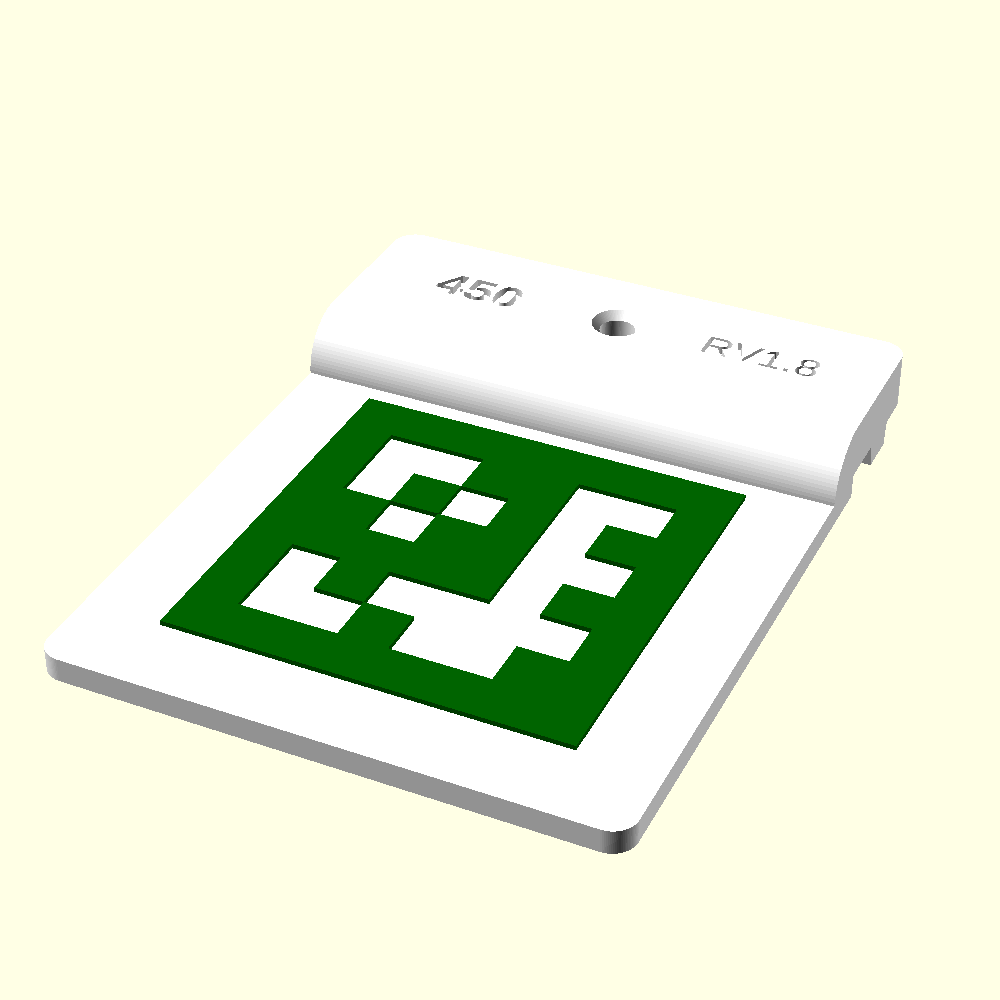
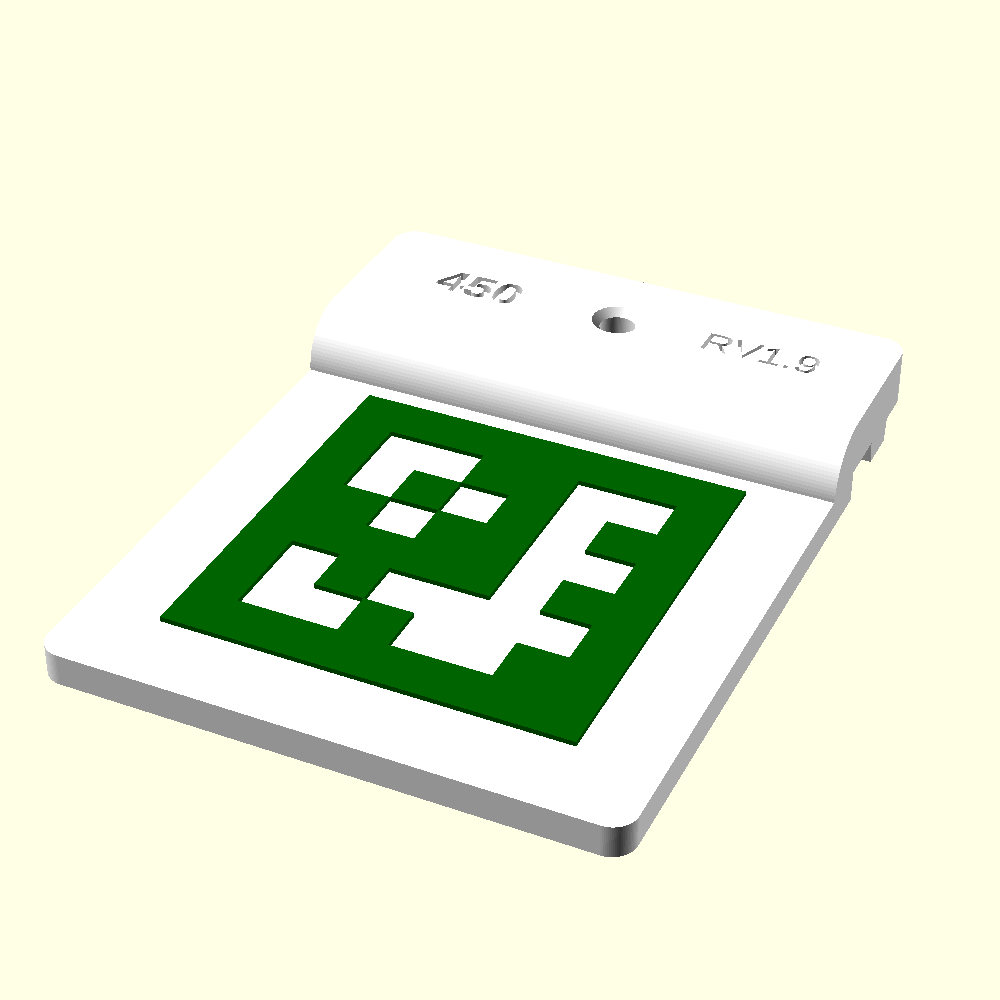
Corner mount REV 1.9: thicker plate, wider ridge relief
Aaron's tuning: tag_plate_thk 3 -> 4 mm, ridge_relief 8 -> 14 mm. Stamp now
RV1.9. README plate thickness and render updated to match.

Verified: body manifold; 4 ids export as 4 objects on 2 filaments.

diff --git a/hardware/README.md b/hardware/README.md
@@ -19,7 +19,7 @@ one 50 mm tag flat and level with the rail's top face.
 |---|---|
 | Tag | 50 mm 36h11, dark layer standing 0.6 mm proud of a white plate |
 | Quiet zone | 10 mm of plain white plate on every side of the tag |
-| Plate | 70 x 70 mm, 3 mm thick, flush with the rail's top face |
+| Plate | 70 x 70 mm, 4 mm thick, flush with the rail's top face |
 | Foot | 70 x 20 mm, 7 mm thick, sits on the rail |
 | Fastening | one M4 bolt, centered, into a type-6 (spring-loaded ball) T-nut |
 | Alignment | keying ridge under the foot runs in the rail's slot and stops the mount rotating |
